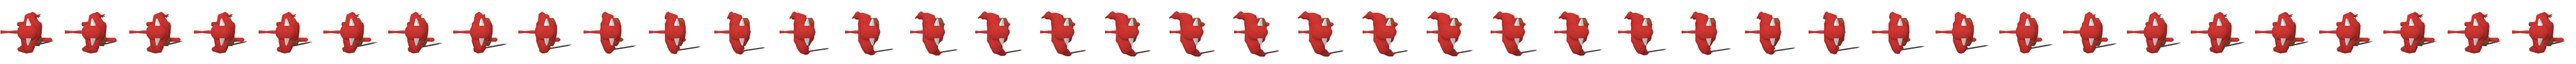
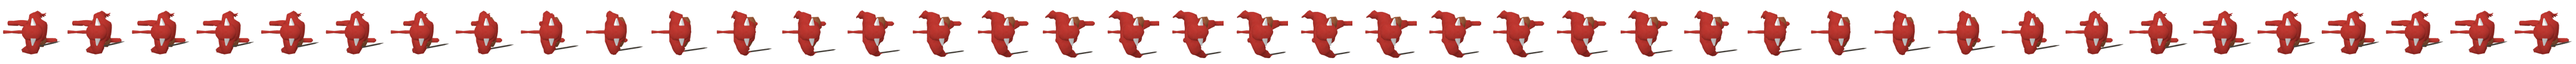
Prayer bug fix, More Animations, Compass bug fix

Changed region(s): [[0.0, 0.1667, 1.0, 0.9167]]

diff --git a/core/src/graphics/ImageLibrary.java b/core/src/graphics/ImageLibrary.java
@@ -227,9 +227,29 @@ public class ImageLibrary
 			animations.put("default", new Animation("res/enemy/warDemon/warDemonIdleAnim.png", 24, 20, true));
 			animations.put("attacking", new Animation("res/enemy/warDemon/warDemonAttackAnim.png", 24, 20, false));
 			animations.put("dying", new Animation("res/enemy/warDemon/warDemonDieAnim.png", 24, 15, false));
-			animations.put("dead", new Animation("res/enemy/warDemon/warDemonDead.png", 1, 1, true));
 			animations.put("walking", new Animation("res/enemy/warDemon/warDemonWalkAnim.png", 24, 40, true));
 			animationSet.put("demonWar", animations);
+
+			animations = new HashMap<String, Animation>();
+			animations.put("default", new Animation("res/enemy/famineDemon/famineDemonIdleAnim.png", 24, 20, true));
+			animations.put("attacking", new Animation("res/enemy/famineDemon/famineDemonAttackAnim.png", 24, 20, false));
+			animations.put("dying", new Animation("res/enemy/famineDemon/famineDemonDieAnim.png", 24, 15, false));
+			animations.put("walking", new Animation("res/enemy/famineDemon/famineDemonWalkAnim.png", 24, 40, true));
+			animationSet.put("demonFamine", animations);
+			
+			animations = new HashMap<String, Animation>();
+			animations.put("default", new Animation("res/enemy/plagueDemon/plagueDemonIdleAnim.png", 24, 20, true));
+			animations.put("attacking", new Animation("res/enemy/plagueDemon/plagueDemonAttackAnim.png", 24, 20, false));
+			animations.put("dying", new Animation("res/enemy/plagueDemon/plagueDemonDieAnim.png", 24, 15, false));
+			animations.put("walking", new Animation("res/enemy/plagueDemon/plagueDemonWalkAnim.png", 24, 40, true));
+			animationSet.put("demonPlague", animations);
+			
+			animations = new HashMap<String, Animation>();
+			animations.put("default", new Animation("res/enemy/deathDemon/deathDemonIdleAnim.png", 24, 20, true));
+			animations.put("attacking", new Animation("res/enemy/deathDemon/deathDemonAttackAnim.png", 24, 20, false));
+			animations.put("dying", new Animation("res/enemy/deathDemon/deathDemonDieAnim.png", 24, 15, false));
+			animations.put("walking", new Animation("res/enemy/deathDemon/deathDemonWalkAnim.png", 24, 40, true));
+			animationSet.put("demonDeath", animations);
 			
 			animations = new HashMap<String, Animation>();
 			animations.put("default", new Animation("res/enemy/giantRat/giantRatIdleAnim.png", 50, 10, true));

diff --git a/core/src/gui/GUIHandler.java b/core/src/gui/GUIHandler.java
@@ -80,15 +80,16 @@ public class GUIHandler
 				
 				return; 
 			case FIRST_PRAYER:
-				makePrayerChoices("gloryBe","ourFather");
+				makePrayerChoices("gloryBe",130,45,"ourFather",151,31,0);
 				return;
 			case SECOND_PRAYER:
-				makePrayerChoices("deusVult","tueriCorpus");
+				makePrayerChoices("deusVult",125,26,"tueriCorpus",160,34,1);
 				return; 
 			case THIRD_PRAYER:
-				makePrayerChoices("slowTheUnholy","wingsOfAngels");
+				makePrayerChoices("slowTheUnholy",122,66,"wingsOfAngels",202,26,2);
+				return;
 			case FOURTH_PRAYER:
-				makePrayerChoices("boltOfGod","holyRetribution");
+				makePrayerChoices("boltOfGod",141,29,"holyRetribution",202,33,3);
 				return;
 			case FAMINE_WON:
 				new GraphicComponent(0, 0, Canvas.WIDTH, Canvas.HEIGHT, "gameWonFamine", LayerType.GUI);
@@ -119,12 +120,12 @@ public class GUIHandler
 		}
 	}
 	
-	private void makePrayerChoices(String prayer1, String prayer2)
+	private void makePrayerChoices(String prayer1,  int width1, int height1,String prayer2, int width2, int height2, int level)
 	{
 		new GraphicComponent(0, 0, Canvas.WIDTH, Canvas.HEIGHT, "prayerChoiceScreen", LayerType.GUI);
-		PrayerChooser pc = new PrayerChooser(0);
-		RadioButton r1 = new RadioButton(350, 250, 151, 31, prayer1+"Choice");
-		RadioButton r2 = new RadioButton(0, 250, 128, 46, prayer2+"Choice");
+		PrayerChooser pc = new PrayerChooser(level);
+		RadioButton r1 = new RadioButton(350, 250, width1, height1, prayer1+"Choice");
+		RadioButton r2 = new RadioButton(0, 250, width2, height2, prayer2+"Choice");
 		interactableObjects.add(r1);
 		interactableObjects.add(r2);
 		pc.put(r1,Prayer.getPrayerInstance(prayer1));

diff --git a/core/src/gameObjects/DemonFamine.java b/core/src/gameObjects/DemonFamine.java
@@ -1,0 +1,26 @@
+package gameObjects;
+
+/*
+ * Example child of enemyObject. This is probably not gonna make it to the final cut, 
+ * but you should at least see how enemies are done.
+ */
+public class DemonFamine extends EnemyObject
+{
+	public static final int SIZE = 25;
+	public static final String TEXTURE = "demonFamine";
+	public static final double SPEED = 50;
+	public static final int DAMAGE = 10;
+	public static final int MAX_RANGE = 40;
+	public static final int MIN_RANGE = 30;
+	public static final int ALERT_DISTANCE = 400;
+	public static final int HEALTH = 100;
+	
+	
+	
+	
+	public DemonFamine(int xin, int yin, Building owner)
+	{
+		super(xin, yin, SIZE, SIZE, TEXTURE, SPEED, DAMAGE, MAX_RANGE,MIN_RANGE, ALERT_DISTANCE, HEALTH, owner);
+	}
+
+}

diff --git a/core/src/gameObjects/DemonPlague.java b/core/src/gameObjects/DemonPlague.java
@@ -1,0 +1,26 @@
+package gameObjects;
+
+/*
+ * Example child of enemyObject. This is probably not gonna make it to the final cut, 
+ * but you should at least see how enemies are done.
+ */
+public class DemonPlague extends EnemyObject
+{
+	public static final int SIZE = 25;
+	public static final String TEXTURE = "demonPlague";
+	public static final double SPEED = 50;
+	public static final int DAMAGE = 10;
+	public static final int MAX_RANGE = 40;
+	public static final int MIN_RANGE = 30;
+	public static final int ALERT_DISTANCE = 400;
+	public static final int HEALTH = 100;
+	
+	
+	
+	
+	public DemonPlague(int xin, int yin, Building owner)
+	{
+		super(xin, yin, SIZE, SIZE, TEXTURE, SPEED, DAMAGE, MAX_RANGE,MIN_RANGE, ALERT_DISTANCE, HEALTH, owner);
+	}
+
+}

diff --git a/core/src/gameObjects/DemonDeath.java b/core/src/gameObjects/DemonDeath.java
@@ -1,0 +1,26 @@
+package gameObjects;
+
+/*
+ * Example child of enemyObject. This is probably not gonna make it to the final cut, 
+ * but you should at least see how enemies are done.
+ */
+public class DemonDeath extends EnemyObject
+{
+	public static final int SIZE = 25;
+	public static final String TEXTURE = "demonDeath";
+	public static final double SPEED = 50;
+	public static final int DAMAGE = 10;
+	public static final int MAX_RANGE = 40;
+	public static final int MIN_RANGE = 30;
+	public static final int ALERT_DISTANCE = 400;
+	public static final int HEALTH = 100;
+	
+	
+	
+	
+	public DemonDeath(int xin, int yin, Building owner)
+	{
+		super(xin, yin, SIZE, SIZE, TEXTURE, SPEED, DAMAGE, MAX_RANGE,MIN_RANGE, ALERT_DISTANCE, HEALTH, owner);
+	}
+
+}

diff --git a/core/src/map/Map.java b/core/src/map/Map.java
@@ -6,6 +6,9 @@ import java.util.Random;
 import gameObjects.Building;
 import gameObjects.ClearDoor;
 import gameObjects.DeathBoss;
+import gameObjects.DemonDeath;
+import gameObjects.DemonFamine;
+import gameObjects.DemonPlague;
 import gameObjects.DemonWar;
 import gameObjects.FamineBoss;
 import gameObjects.GiantRat;
@@ -63,7 +66,11 @@ public class Map
 		spawnTypes.put("skeletonsArm", SkeletonsArm.class);
 		spawnTypes.put("theHandOfDeath", TheHandOfDeath.class);
 		spawnTypes.put("theLightBringer", TheLightBringer.class);
+		spawnTypes.put("demonFamine", DemonFamine.class);
+		spawnTypes.put("demonPlague", DemonPlague.class);
 		spawnTypes.put("demonWar", DemonWar.class);
+		spawnTypes.put("demonDeath", DemonDeath.class);
+		
 		
 		
 		

diff --git a/core/src/map/BuildingHandler.java b/core/src/map/BuildingHandler.java
@@ -189,7 +189,14 @@ public class BuildingHandler
 	}
 	public Building closestNonBossBuilding(GameObject go)
 	{
-		Building minBuild = buildings.get(0);
+		Building minBuild = null;
+		for (Building b : buildings)
+		{
+			if(!b.isBossLair())
+			{
+				minBuild = b;
+			}
+		}
 		for (Building b : buildings)
 		{
 			if(Functions.distance(go, b)<Functions.distance(go, minBuild))
